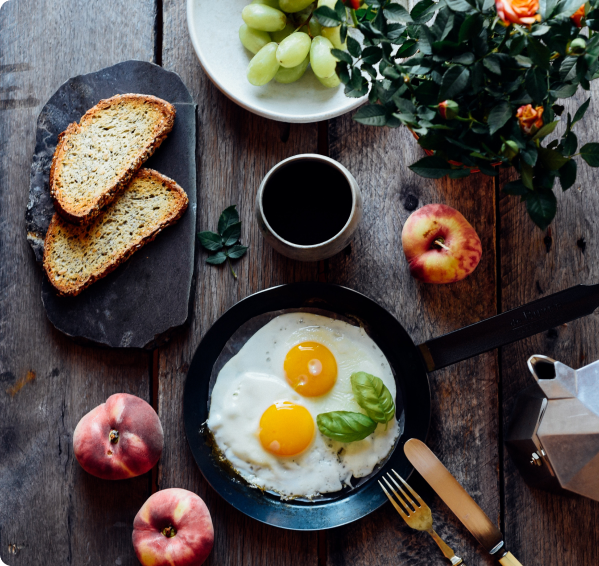
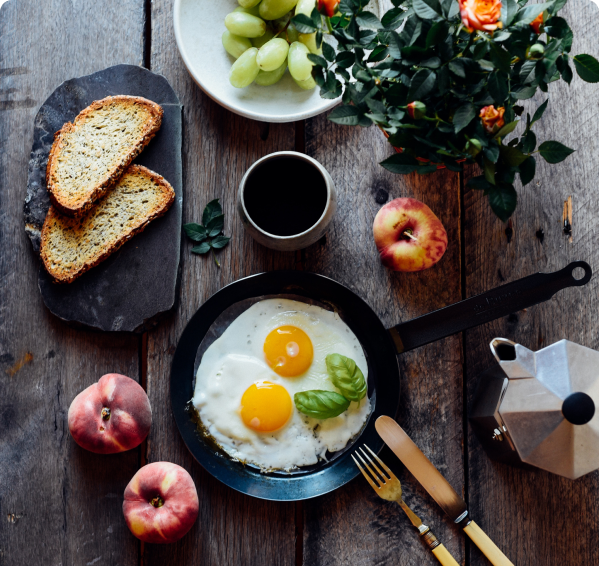
added imgCards for id page

diff --git a/client/src/storage/storageMenu.js b/client/src/storage/storageMenu.js
@@ -7,6 +7,13 @@ import imgMenu6 from '../app/menu/assets/imgMenu6.png';
 import imgMenu7 from '../app/menu/assets/imgMenu7.png';
 import imgMenu8 from '../app/menu/assets/imgMenu8.png';
 import imgCard1 from '../app/menu/assets/imgCard1.png';
+import imgCard2 from '../app/menu/assets/imgCard2.png';
+import imgCard3 from '../app/menu/assets/imgCard3.png';
+import imgCard4 from '../app/menu/assets/imgCard4.png';
+import imgCard5 from '../app/menu/assets/imgCard5.png';
+import imgCard6 from '../app/menu/assets/imgCard6.png';
+import imgCard7 from '../app/menu/assets/imgCard7.png';
+import imgCard8 from '../app/menu/assets/imgCard8.png';
 
 export const arrCardsMenu = [
   {
@@ -21,6 +28,7 @@ export const arrCardsMenu = [
   {
     id: '2',
     imgForMenu: imgMenu2,
+    imgForCard: imgCard2,
     alt: 'imgHawaiianPizza',
     price: '$ 15.99',
     title: 'Hawaiian Pizza',
@@ -29,6 +37,7 @@ export const arrCardsMenu = [
   {
     id: '3',
     imgForMenu: imgMenu3,
+    imgForCard: imgCard3,
     alt: 'imgMartinezCocktail',
     price: '$ 7.25',
     title: 'Martinez Cocktail',
@@ -37,6 +46,7 @@ export const arrCardsMenu = [
   {
     id: '4',
     imgForMenu: imgMenu4,
+    imgForCard: imgCard4,
     alt: 'imgButterscotchCake',
     price: '$ 20.99',
     title: 'Butterscotch Cake',
@@ -45,6 +55,7 @@ export const arrCardsMenu = [
   {
     id: '5',
     imgForMenu: imgMenu5,
+    imgForCard: imgCard5,
     alt: 'imgMintLemonade',
     price: '$ 5.89',
     title: 'Mint Lemonade',
@@ -53,6 +64,7 @@ export const arrCardsMenu = [
   {
     id: '6',
     imgForMenu: imgMenu6,
+    imgForCard: imgCard6,
     alt: 'imgChocolateIcecream',
     price: '$ 18.05',
     title: 'Chocolate Icecream',
@@ -61,6 +73,7 @@ export const arrCardsMenu = [
   {
     id: '7',
     imgForMenu: imgMenu7,
+    imgForCard: imgCard7,
     alt: 'imgCheeseBurger',
     price: '$ 12.55',
     title: 'Cheese Burger',
@@ -69,6 +82,7 @@ export const arrCardsMenu = [
   {
     id: '8',
     imgForMenu: imgMenu8,
+    imgForCard: imgCard8,
     alt: 'imgClassicWaffles',
     price: '$ 12.99',
     title: 'Classic Waffles',

diff --git a/client/src/app/menu/[id]/page.js b/client/src/app/menu/[id]/page.js
@@ -17,11 +17,7 @@ export default function Id() {
   return (
     <>
       <div className={style.container}>
-        <Image
-          className={style.img}
-          alt={card.alt}
-          src={card.imgForCard || card.imgForMenu}
-        ></Image>
+        <Image className={style.img} alt={card.alt} src={card.imgForCard}></Image>
 
         <div className={style.infoWrapper}>
           <h2>{card.title}</h2>
